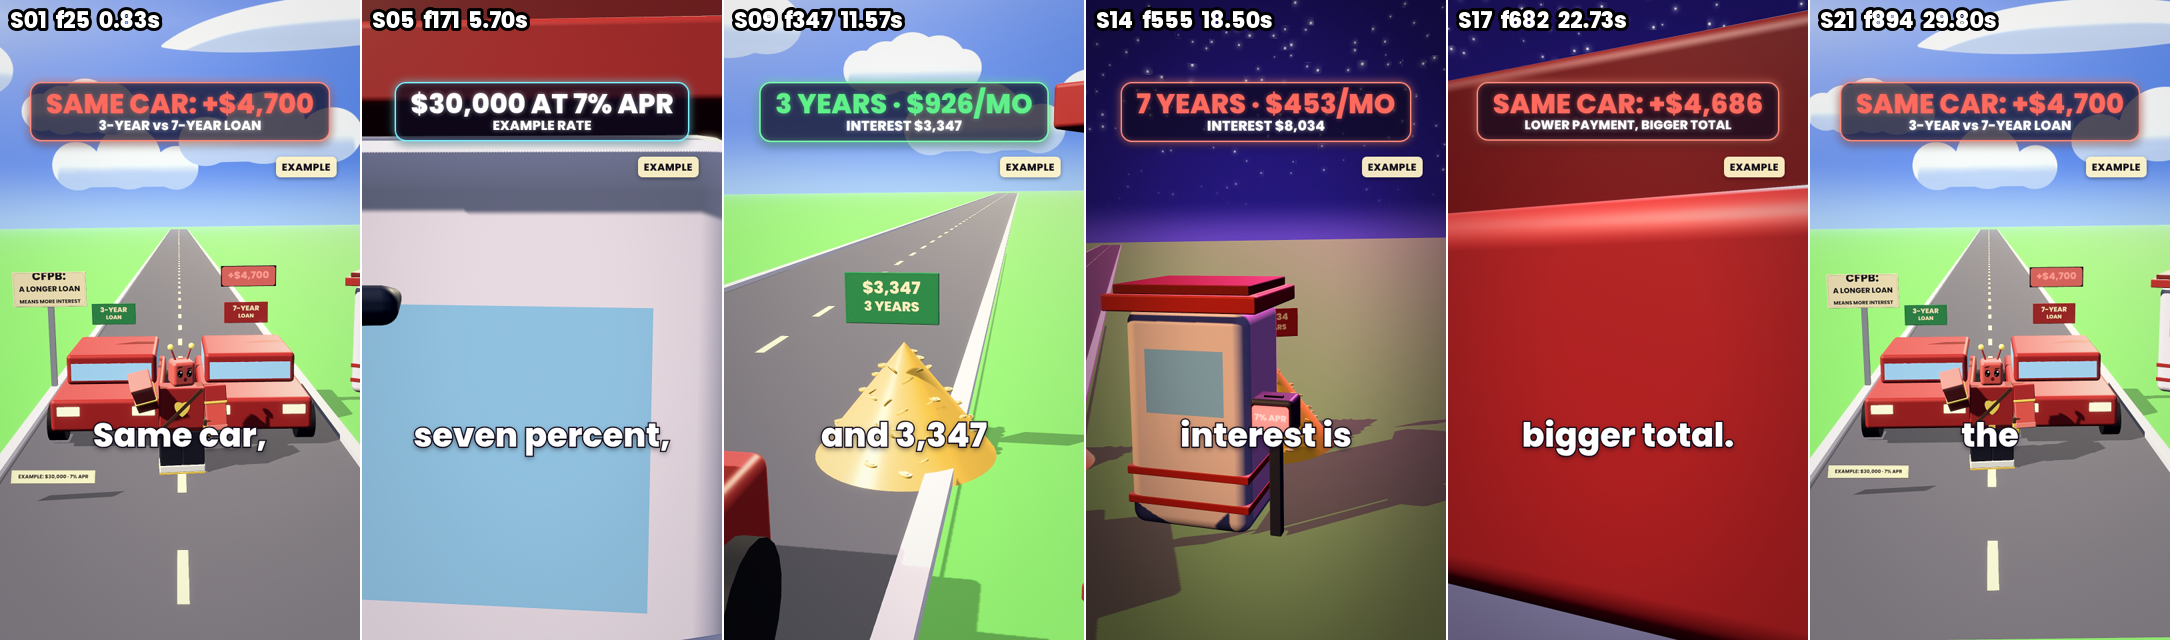
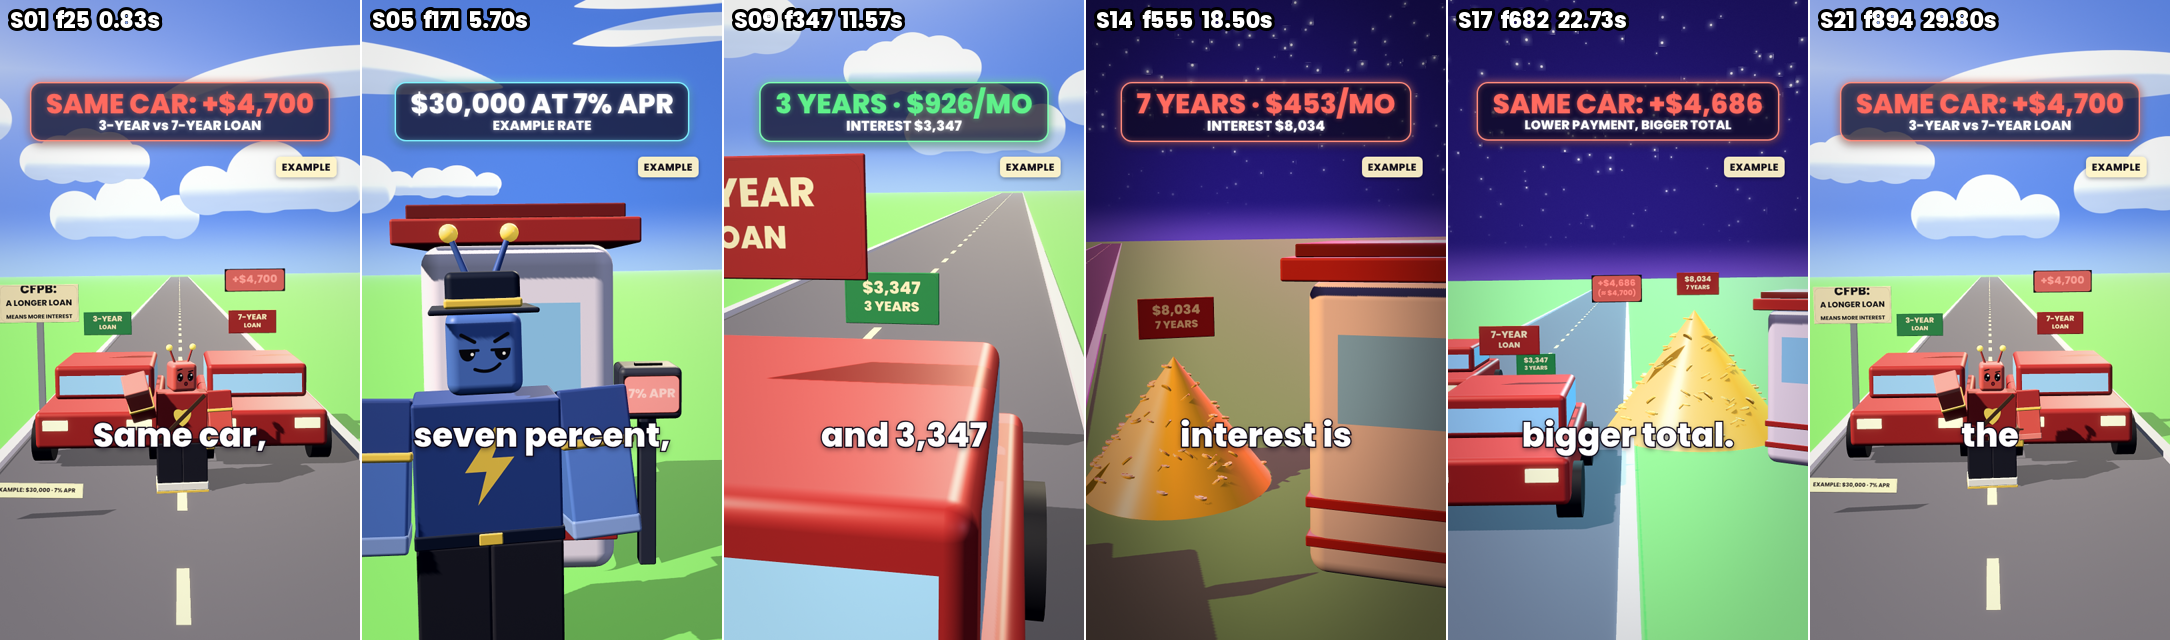
finance F2: same-car-more round-2 sheet + S09/S17 lens fixes
Claude-Session: https://claude.ai/code/session_01D7r6b9GaQTXrUiCNiGbAsa

diff --git a/finance/render-pc/src/fin/samecar.tsx b/finance/render-pc/src/fin/samecar.tsx
@@ -38,7 +38,7 @@ const LENS: Record<string, Omit<FinShot, "id" | "a" | "b">> = {
   S06: manual([P_LD[0] - 0.25, 1.35, P_LD[2] + 0.45], -10, 1.0, 0.0, { mood: "earth", sky: true }),
   S07: fitted([...body(P_SV, S.saver), ...carPts(CAR3)], 18, 0.12, D.S07, { mood: "earth", sky: true }),
   S08: manual([CAR3[0], 1.3, CAR3[2] + 0.9], 8, 1.25, 0.12, { mood: "earth", sky: true }),
-  S09: fitted([[PILE3[0] - 0.8, 0, PILE3[2]], [PILE3[0] + 0.8, 1.4, PILE3[2]]], 10, 0.25, D.S09, { mood: "earth", sky: true }),
+  S09: fitted([[PILE3[0] - 0.8, 0, PILE3[2]], [PILE3[0] + 0.8, 1.4, PILE3[2]]], -28, 0.25, D.S09, { mood: "earth", sky: true }),
   S10: fitted([...carPts(CAR3), [CAR3[0], 0, CAR3[2] - 3.5]], 24, 0.25, D.S10, { mood: "earth", sky: true }),
   S11: fitted([...body([1.95, 0, 0.3], S.spender), ...carPts(CAR7)], -16, 0.12, D.S11, { mood: "earth", sky: true }),
   S12: manual([CAR7[0], 1.3, CAR7[2] + 0.9], -6, 1.25, 0.12, { mood: "earth", sky: true }),
@@ -46,7 +46,7 @@ const LENS: Record<string, Omit<FinShot, "id" | "a" | "b">> = {
   S14: fitted([[BOOTH[0] - 0.7, 0, BOOTH[2]], [PILE7[0] + 1.3, 0, PILE7[2]], [PILE7[0], 2.6, PILE7[2]]], -12, 0.18, D.S14, { mood: "whisper", sky: true }),
   S15: manual([PILE7[0], 1.5, PILE7[2]], -6, 3.2, -0.25, { mood: "whisper", sky: true, fov: 56 }),
   S16: fitted([[PILE3[0] - 0.9, 0, PILE3[2]], [PILE7[0] + 1.4, 0, PILE7[2]], [PILE7[0], 2.6, PILE7[2]]], 0, 0.15, D.S16, { mood: "store", sky: true }),
-  S17: fitted([[PILE3[0] - 0.7, 0, PILE3[2]], [PILE7[0] + 1.0, 0, PILE7[2]], [(PILE3[0] + PILE7[0]) / 2, 2.5, PILE3[2] + 0.4]], 0, 0.12, D.S17, { mood: "store", sky: true }),
+  S17: fitted([[PILE3[0] - 0.7, 0, PILE3[2]], [PILE7[0] + 1.0, 0, PILE7[2]], [(PILE3[0] + PILE7[0]) / 2, 2.5, PILE3[2] + 0.4]], -38, 0.15, D.S17, { mood: "store", sky: true, m: 0.06 }),
   S18: manual([SIGN[0], 1.75, SIGN[2]], 14, 2.1, 0.0, { mood: "store", sky: true }),
   S19: fitted(body([1.95, 0, 0.3], S.spender, true), -20, 0.05, D.S19, { mood: "whisper", sky: true, face: 0.5 }),
   S20: fitted([...carPts(CAR7), [CAR7[0] + 2.5, 0.2, CAR7[2] + 1.8], [CAR7[0] - 2.4, 0.2, CAR7[2] + 1.8]], -6, 0.25, D.S20, { mood: "earth", sky: true }),
